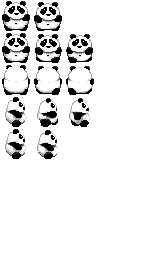
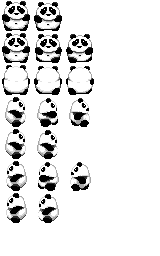
Fix left walking panda

Changed region(s): [[0.2188, 0.625, 0.375, 0.875], [0.0312, 0.625, 0.1875, 0.875], [0.4375, 0.625, 0.5938, 0.75]]

diff --git a/overlay/style.scss b/overlay/style.scss
@@ -274,7 +274,7 @@ main {
     animation: 1.2s walking infinite steps(1);
 
     &.left {
-      transform: scaleX(-100%);
+      animation: 1.2s walking-left infinite steps(1);
     }
   }
 }
@@ -300,5 +300,20 @@ main {
   }
   75% {
     background-position: -200% -300%;
+  }
+}
+
+@keyframes walking-left {
+  0% {
+    background-position: 0 -500%;
+  }
+  25% {
+    background-position: -100% -500%;
+  }
+  50% {
+    background-position: 0 -500%;
+  }
+  75% {
+    background-position: -200% -500%;
   }
 }
